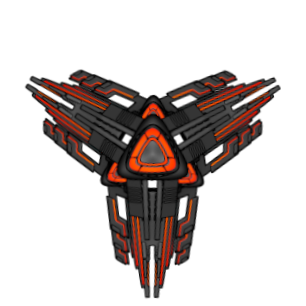
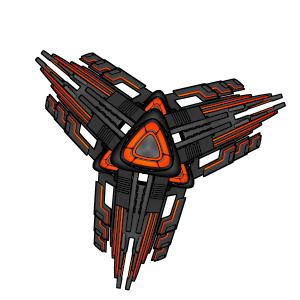
Fixed graphical bug with rotating enemy, modified level 3 and 4

Changed region(s): [[0.06, 0.15, 0.96, 0.99]]

diff --git a/src/collision.c b/src/collision.c
@@ -60,7 +60,6 @@ static void check_collisions_list(struct window *window, SDL_Rect *pos,
         SDL_Rect *temp_pos = NULL;
         int to_free = 0;
 
-
         if (temp_enemy->rotating)
         {
             temp = temp_enemy->texture.textures[temp_enemy->curr_texture];
@@ -83,6 +82,7 @@ static void check_collisions_list(struct window *window, SDL_Rect *pos,
             temp_pos = &temp_enemy->pos_dst;
         }
 
+
         while (temp_shot)
         {
             // If collision shot <-> enemy
@@ -94,7 +94,7 @@ static void check_collisions_list(struct window *window, SDL_Rect *pos,
                 temp_enemy->last_time_hurt = SDL_GetTicks();
 
                 // Add an explosion
-                list_push_front(&temp_enemy->pos_dst, window, EXPLOSION_LIST,
+                list_push_front(temp_pos, window, EXPLOSION_LIST,
                                 temp->texture, NULL, 0, 0);
 
                 Mix_PlayChannel(-1, window->sounds->explosion, 0);
@@ -108,7 +108,7 @@ static void check_collisions_list(struct window *window, SDL_Rect *pos,
                 if (temp_enemy->health <= 0)
                 {
                     // Add a "+100" text above the dead enemy
-                    list_push_front(&temp_enemy->pos_dst, window, HUD_LIST,
+                    list_push_front(temp_pos, window, HUD_LIST,
                                     NULL, NULL, 0, 0);
 
                     // Delete enemy
@@ -139,7 +139,7 @@ static void check_collisions_list(struct window *window, SDL_Rect *pos,
                          pos, window->img->ship))
         {
             // Add an explosion
-            list_push_front(&temp_enemy->pos_dst, window, EXPLOSION_LIST,
+            list_push_front(temp_pos, window, EXPLOSION_LIST,
                             temp->texture, NULL, 0, 0);
 
             Mix_PlayChannel(-1, window->sounds->explosion, 0);
@@ -147,7 +147,7 @@ static void check_collisions_list(struct window *window, SDL_Rect *pos,
             if (type == ENEMY_LIST)
             {
                 // Add a "+100" text above the dead enemy
-                list_push_front(&temp_enemy->pos_dst, window, HUD_LIST,
+                list_push_front(temp_pos, window, HUD_LIST,
                                 NULL, NULL, 0, 0);
 
                 // Delete enemy

diff --git a/src/enemy.c b/src/enemy.c
@@ -19,7 +19,6 @@ static int is_rotating(char enemy_type)
     return 0;
 }
 
-
 void set_enemy_attributes(struct list *new, SDL_Rect *pos,
                           struct window *window, char enemy_type)
 {
@@ -126,10 +125,12 @@ void move_enemies(struct window *window, SDL_Rect *ship_pos)
         if (is_rotating(temp->enemy_type))
             temp->curr_texture = (temp->curr_texture + 1) % NUM_ROTATING_FRAMES;
 
-
         int shoot = is_shooting(temp->enemy_type);
 
-        if (shoot && temp->framecount % FRAMES_BETWEEN_ENEMY_SHOTS == 0)
+        if (temp->enemy_type == 'A' && temp->framecount % FRAMES_BETWEEN_ENEMY_SHOTS == 0)
+            list_push_front(&temp->pos_dst, window, ENEMY_SHOT_LIST, NULL, ship_pos, 0, 0);
+
+        if (temp->enemy_type == 'C' && temp->framecount % 8 == 0)
             list_push_front(&temp->pos_dst, window, ENEMY_SHOT_LIST, NULL, ship_pos, 0, 0);
 
         // Prevent out of bounds by deleting the enemy if not on screen
@@ -182,11 +183,13 @@ void render_enemies(struct window *window)
                            };
 
             SDL_RenderCopy(window->renderer,
-                           temp->texture.textures[temp->curr_texture]->texture,                                                                     NULL, &pos);
+                           temp->texture.textures[temp->curr_texture]->texture,
+                           NULL, &pos);
         }
         else
             SDL_RenderCopy(window->renderer,
-                           temp->texture.texture->texture,                                                                                          NULL, &temp->pos_dst);
+                           temp->texture.texture->texture,
+                           NULL, &temp->pos_dst);
 
         // Go to next enemy
         temp = temp->next;
@@ -235,7 +238,7 @@ void set_enemy_shot_attributes(struct list *new, SDL_Rect *pos_dst, struct windo
                                SDL_Rect *ship_pos)
 {
     // Setting shot initial position
-    new->pos_dst.x = pos_dst->x;
+    new->pos_dst.x = pos_dst->x + pos_dst->w / 2;
     new->pos_dst.y = pos_dst->y + pos_dst->h / 2;
 
     SDL_QueryTexture(window->img->enemy_shot->texture, NULL, NULL, &new->pos_dst.w, &new->pos_dst.h);

diff --git a/src/init.c b/src/init.c
@@ -73,7 +73,7 @@ static void load_textures(struct window *window)
 
     for (size_t i = 1; i < NUM_ROTATING_FRAMES; i++)
     {
-        SDL_Surface *temp = rotozoomSurface(original, i * 2, 1.0, SMOOTHING_ON);
+        SDL_Surface *temp = rotozoomSurface(original, i * 2.0, 1.0, SMOOTHING_ON);
         window->img->rotating_enemy[i] = get_texture_collision(temp, window);
 
         SDL_FreeSurface(temp);

diff --git a/src/free.c b/src/free.c
@@ -31,6 +31,9 @@ static void free_textures(struct window *window)
     free_collision_texture(window->img->asteroid);
     SDL_DestroyTexture(window->img->aura);
 
+    for (size_t i = 0; i < NUM_ROTATING_FRAMES; i++)
+        free_collision_texture(window->img->rotating_enemy[i]);
+
     free(window->img);
 }
 

diff --git a/src/init.h b/src/init.h
@@ -7,7 +7,7 @@
 #include <SDL2/SDL_mixer.h>
 
 #define NUM_LEVELS 6
-#define NUM_ROTATING_FRAMES 60
+#define NUM_ROTATING_FRAMES 180
 
 enum object_type
 {
